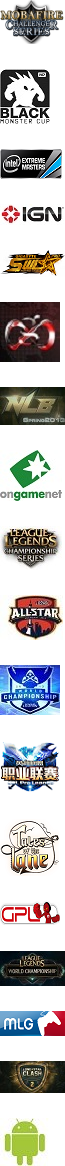
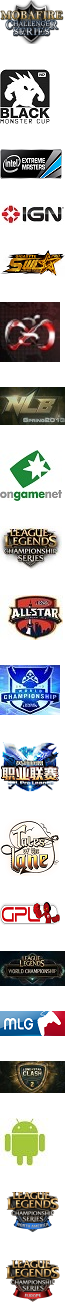
#8: Add LCS NA and LCS EU tournament thumbnails

diff --git a/dist/css/loleventvods.css b/dist/css/loleventvods.css
@@ -997,6 +997,18 @@ a[href="#sweden"]:after {
   background-position: 0 -1118px;
   height: 48px;
 }
+.thing .thumbnail[href*="with_the"] {
+  background-position: 0 -1118px;
+  height: 48px;
+}
+.thing .thumbnail[href*="na_lcs"] {
+  background-position: 0 -1191px;
+  height: 42px;
+}
+.thing .thumbnail[href*="eu_lcs"] {
+  background-position: 0 -1258px;
+  height: 44px;
+}
 a[href="#america"]:after,
 a[href="#china"]:after,
 a[href="#europe"]:after,

diff --git a/less/thumbnails.less b/less/thumbnails.less
@@ -152,3 +152,21 @@
     // width: 50px;
     height: 48px;
 }
+
+.thing .thumbnail[href*="with_the"] {
+    background-position: 0 -1118px;
+    // width: 50px;
+    height: 48px;
+}
+
+.thing .thumbnail[href*="na_lcs"] {
+    background-position: 0 -1191px;
+    // width: 50px;
+    height: 42px;
+}
+
+.thing .thumbnail[href*="eu_lcs"] {
+    background-position: 0 -1258px;
+    // width: 50px;
+    height: 44px;
+}
